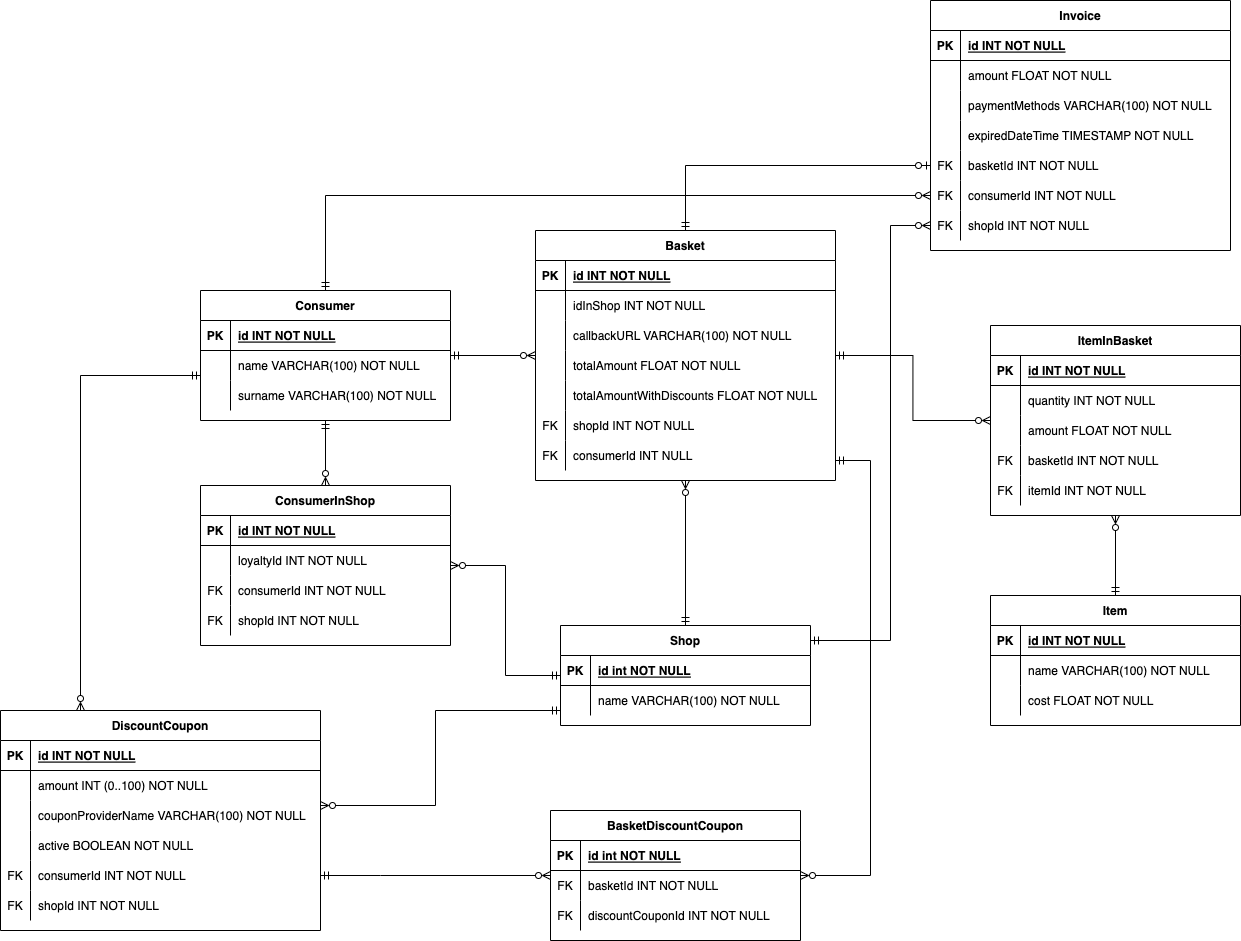
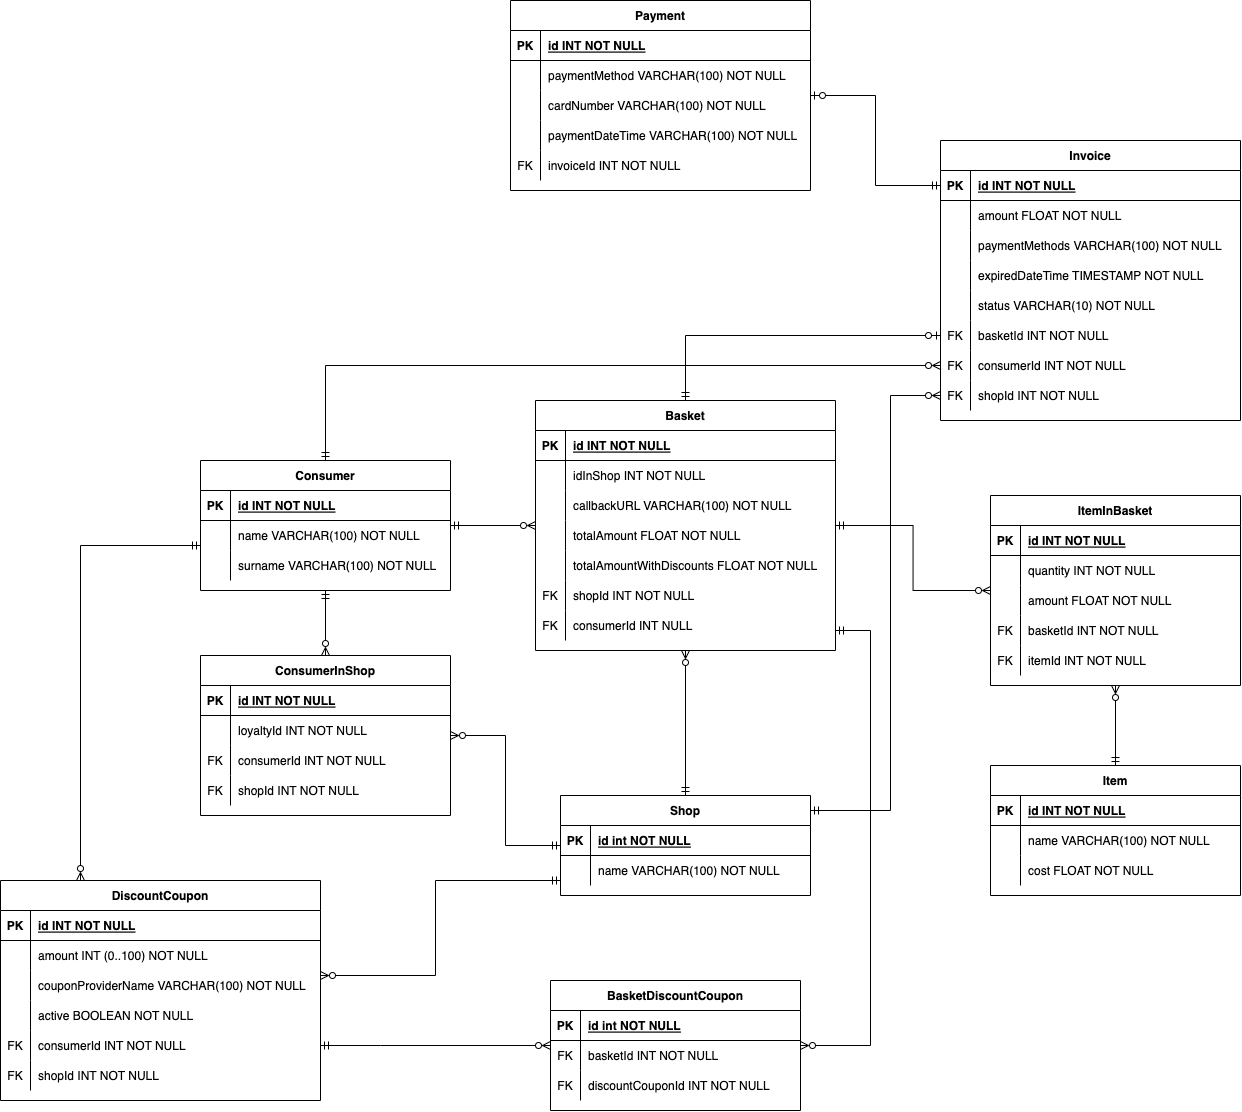
fix

diff --git a/MobileApp/app/src/main/java/ru/bmstu/mobileapp/fragments/choice_payment_method/ChoicePaymentMethod.kt b/MobileApp/app/src/main/java/ru/bmstu/mobileapp/fragments/choice_payment_method/ChoicePaymentMethod.kt
@@ -1,6 +1,7 @@
 package ru.bmstu.mobileapp.fragments.choice_payment_method
 
 import android.os.Bundle
+import android.util.Log
 import androidx.fragment.app.Fragment
 import android.view.LayoutInflater
 import android.view.View
@@ -11,7 +12,9 @@ import androidx.navigation.fragment.findNavController
 import androidx.recyclerview.widget.LinearLayoutManager
 import androidx.recyclerview.widget.RecyclerView
 import ru.bmstu.mobileapp.R
+import ru.bmstu.mobileapp.USER_ID
 import ru.bmstu.mobileapp.models.PaymentMethod
+import java.net.URL
 
 class ChoicePaymentMethod : Fragment() {
 
@@ -19,10 +22,8 @@ class ChoicePaymentMethod : Fragment() {
     private lateinit var choicePaymentMethodAdapter: ChoicePaymentMethodAdapter
     private lateinit var data: MutableList<PaymentMethod>
 
-    private var paymentsMethods: ArrayList<PaymentMethod> = arrayListOf(
-        PaymentMethod("MIR", "12345678", 200.0f),
-        PaymentMethod("MIR", "12345697", 50.0f),
-    )
+    private var paymentsMethods: ArrayList<PaymentMethod> = ArrayList()
+    private var amount = 0.0f
 
     override fun onCreateView(
         inflater: LayoutInflater, container: ViewGroup?,
@@ -30,6 +31,15 @@ class ChoicePaymentMethod : Fragment() {
     ): View? {
         val view = inflater.inflate(R.layout.fragment_choice_payment_method, container, false)
         recyclerView = view.findViewById(R.id.invoice_list)
+
+        val args: Bundle? = arguments
+        if (args != null) {
+            amount = args.getFloat("amount")
+            paymentsMethods.add(PaymentMethod("MIR", "5678", 0.9f * amount))
+            paymentsMethods.add(PaymentMethod("MIR", "5697", 0.95f * amount))
+        } else {
+            Log.e("PaymentMethod Fragment", "Bundle from previous fragment is null")
+        }
 
         data = mutableListOf()
         data.addAll(paymentsMethods)
@@ -42,7 +52,9 @@ class ChoicePaymentMethod : Fragment() {
         paymentButton.setOnClickListener {
             val selectedPaymentMethod : Int = choicePaymentMethodAdapter.getSelectedPaymentMethod()
             if (selectedPaymentMethod != -1) {
-                findNavController().navigate(R.id.action_choice_payment_method_to_success_payment)
+                val bundle = Bundle()
+                bundle.putFloat("amount", data[selectedPaymentMethod].amount!!)
+                findNavController().navigate(R.id.action_choice_payment_method_to_success_payment, bundle)
             } else {
                 Toast.makeText(activity, "Выберите способ оплаты", Toast.LENGTH_LONG).show()
             }

diff --git a/MobileApp/app/src/main/java/ru/bmstu/mobileapp/fragments/invoice/InvoiceFragment.kt b/MobileApp/app/src/main/java/ru/bmstu/mobileapp/fragments/invoice/InvoiceFragment.kt
@@ -29,6 +29,7 @@ class InvoiceFragment : Fragment() {
     private lateinit var recyclerView: RecyclerView
     private lateinit var invoiceAdapter: InvoiceAdapter
     private lateinit var data: MutableList<Item>
+    private lateinit var invoice: Invoice
     private lateinit var navController: NavController
 
     lateinit var myService: RetrofitServices
@@ -68,7 +69,9 @@ class InvoiceFragment : Fragment() {
 
         val paymentButton: Button = view.findViewById(R.id.button_pay_invoice)
         paymentButton.setOnClickListener {
-            navController.navigate(R.id.action_invoice_to_choice_payment_method)
+            val bundle = Bundle()
+            bundle.putFloat("amount", invoice.totalAmountWithDiscounts!!)
+            navController.navigate(R.id.action_invoice_to_choice_payment_method, bundle)
         }
 
         val sendHttp: Button = view.findViewById(R.id.http_send_button)
@@ -91,10 +94,11 @@ class InvoiceFragment : Fragment() {
                 val items = response.body()?.items
                 if (items != null) {
                     Log.d("getBasketHttpRequest", items.toString())
+                    invoice = response.body()!!
                     data.addAll(items)
 
-                    view!!.findViewById<TextView>(R.id.invoice_total_amount).text = response.body()?.totalAmount.toString()
-                    view!!.findViewById<TextView>(R.id.invoice_total_amount_with_discounts).text = response.body()?.totalAmountWithDiscounts.toString()
+                    view!!.findViewById<TextView>(R.id.invoice_total_amount).text = invoice.totalAmount.toString()
+                    view!!.findViewById<TextView>(R.id.invoice_total_amount_with_discounts).text = invoice.totalAmountWithDiscounts.toString()
                 }
                 invoiceAdapter.notifyDataSetChanged()
             }

diff --git a/back_end_server/init_db.py b/back_end_server/init_db.py
@@ -72,9 +72,21 @@ def create_all_tables():
                 amount FLOAT4 NOT NULL,
                 paymentMethods VARCHAR(100) NOT NULL,
                 expiredDateTime TIMESTAMP WITHOUT TIME ZONE NOT NULL,
+                status VARCHAR(10) NOT NULL,
                 basketId INT NOT NULL REFERENCES Basket (id),
                 consumerId INT NOT NULL REFERENCES Consumer (id),
                 shopId INT NOT NULL REFERENCES Shop (id))
+        """,
+
+        #Создание таблицы платежей (Payment)
+        "DROP TABLE IF EXISTS Payment CASCADE;",
+        """
+            CREATE TABLE IF NOT EXISTS Payment (
+                id SERIAL PRIMARY KEY NOT NULL,
+                paymentMethod VARCHAR(10) NOT NULL,
+                cardNumber VARCHAR(16) NOT NULL,
+                paymentDateTime TIMESTAMP WITHOUT TIME ZONE NOT NULL,
+                invoiceId INT NOT NULL REFERENCES Invoice (id))
         """
     ]
     execute_many_queries_without_response(queries)

diff --git a/back_end_server/main.py b/back_end_server/main.py
@@ -108,6 +108,7 @@ def save_invoice_into_database(invoice_from_request):
             "amount": invoice_from_request["amount"],
             "paymentMethods": invoice_from_request["paymentMethods"],
             "expiredDateTime": invoice_from_request["expiredDateTime"],
+            "status": "Not paid",
             "basketId": invoice_from_request["basketId"],
             "consumerId": invoice_from_request["consumerId"],
             "shopId": invoice_from_request["shopId"]
